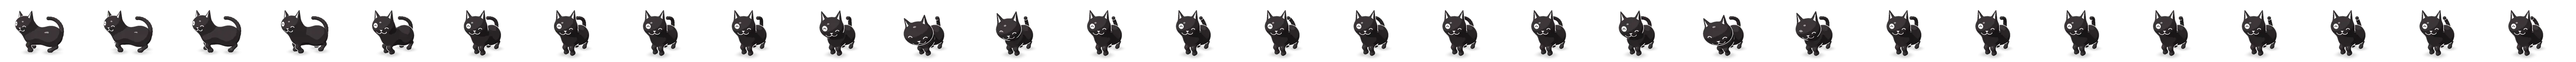
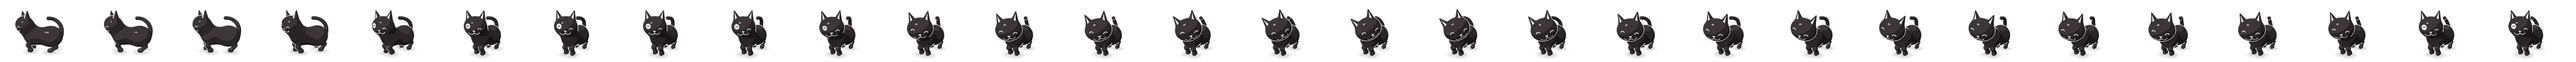
Strolling cat: rubs its head on the screen instead of head-butting
Pedro wanted the 'turras' to be a gentle head rub, as against your legs:
it leans in until its forehead touches the glass, rolls the side of its
head along it one way and back with its eyes shut, and lets go.

Claude-Session: https://claude.ai/code/session_01H2pWhfzeAJFk1pWMmimj5t

diff --git a/apps/web/scripts/gato-3d/gato.html b/apps/web/scripts/gato-3d/gato.html
@@ -235,7 +235,7 @@ function ik(root, target, a, b, hint){
  * - yaw: which way the whole cat faces (0: left, 90: towards us, 180: right)
  * - walk: stride phase (0..1) and how much it walks (0 stands)
  * - lie: 0 standing, 1 lying like a loaf
- * - look: how far the head turns towards us; nod: head pitch; tilt: head roll; push: head pushed towards us (head-butt)
+ * - look: how far the head turns towards us; nod: head pitch; tilt: head roll; push: head pushed towards us (rubbing the glass); slide: head moved sideways
  * - squash: the head flattening on the glass; blink: eyes closed; tail: { up, sway, t }
  */
 const STRIDE = 0.5;
@@ -247,7 +247,7 @@ function build(P){
   const bob = walk * -0.022 * Math.cos(4 * Math.PI * phase) + (P.breathe || 0) * 0.012;
   const sway = walk * 0.03 * Math.sin(2 * Math.PI * phase);
   const yaw = rad(P.yaw || 0);
-  const lean = P.lean || 0;                  // chest forward/down, during a head-butt
+  const lean = P.lean || 0;                  // chest forward/down, while rubbing the glass
   const toWorld = (p) => add(rotY(yaw)(sub(p, [0.05, 0, 0])), [P.x || 0, 0, 0]);
   const world3x3 = (m) => m; // ellipsoid axes are built in world space below
   const lowered = (p, how) => add(p, [0, -how * lie - crouch * 0.12, 0]);
@@ -281,7 +281,7 @@ function build(P){
   const right = norm(cross(up, f));
   const neck = toWorld(lowered([-0.7 - lean * 0.12, 1.26 + bob * 1.3, sway * 1.2], lerp(0.4, 0.46, lie)));
   const push = P.push || 0;
-  const headC = add(add(neck, mul(f, 0.06 + push)), [0, -lean * 0.06, 0]);
+  const headC = add(add(add(neck, mul(f, 0.06 + push)), [0, -lean * 0.06, 0]), mul(right, P.slide || 0));
   const sq = P.squash || 0;
   const hr = [0.45 * (1 + sq * 0.12), 0.39 * (1 + sq * 0.1), 0.4 * (1 - sq * 0.22)];
   ells.push({ c: headC, r: hr, ax: [right, up, f], k: 0.3, head: true });
@@ -399,34 +399,39 @@ function draw(scene){
 /*
  * Each action is a function of t in [0, 1) giving a pose, and a length in seconds. Every action starts where the
  * one before it ends, so they play as one movement:
- *   walk (loops, facing left) → bonk (turns towards us, two head-butts at the screen) → turn (a circle on the spot)
- *   → lie (lies down) → purr (loops) … rise (lie backwards) → leave (two head-butts, then turns to face right)
+ *   walk (loops, facing left) → bonk (turns towards us, rubs its head against the screen) → turn (a circle on the spot)
+ *   → lie (lies down) → purr (loops) … rise (lie backwards) → leave (one more rub, then turns to face right)
  *   → walk mirrored, out to the right. stand (loops) is for when its card opens while it is up.
  */
 const FACE_US = 62;                        // standing at ease, three quarters towards us
 const tailHappy = (t, n = 1) => ({ base: 70, curl: 12, sway: 0.5, t: t * n });
+/**
+ * Rubbing its head against the screen, as a cat does against your legs (u from 0 to 1): it leans in until its
+ * forehead touches the glass, then rolls the side of its head along it, one way and back, eyes shut, and lets go.
+ */
+function rub(u){
+  u = clamp(u);
+  const touch = smooth(u / 0.22) * (1 - smooth((u - 0.85) / 0.15));
+  const sweep = Math.sin(2 * Math.PI * smooth((u - 0.15) / 0.75));
+  return { push: 0.3 * touch, lean: 0.55 * touch, squash: 0.45 * touch, nod: 8 * touch, look: 28 + 16 * sweep * touch,
+    tilt: (6 + 24 * sweep) * touch, slide: 0.07 * sweep * touch, blink: smooth((touch - 0.3) / 0.4) };
+}
 const ACTIONS = {
   walk: { s: 0.8, loop: true, pose: (t) => ({ yaw: 0, walk: 1, phase: t, look: 62, nod: -4 + 3 * Math.sin(4 * Math.PI * t), tail: tailHappy(t) }) },
   bonk: { s: 2.4, pose: (t) => {
-    // 0–.25: turns to face us; then two head-butts; ends standing three quarters to us
+    // 0–.25: turns to face us; then leans in and rubs its cheek and head against the glass, to and fro, eyes shut
     const turn = ease(t / 0.25);
-    const b = (c) => { const x = (t - c) / 0.2; return x < 0 || x > 1 ? 0 : Math.sin(Math.PI * Math.min(1, x * 1.6)) ** 2 * (x < .62 ? 1 : 1 - (x - .62) / .38); };
-    const hit = Math.max(b(0.3), b(0.62));
-    const contact = Math.max(0, hit - 0.75) / 0.25;
-    return { yaw: lerp(0, FACE_US, turn), walk: t < 0.25 ? 0.6 * (1 - turn) : 0, phase: t * 3, look: lerp(62, 28, turn),
-      push: 0.42 * hit, lean: hit, squash: contact, nod: lerp(-4, 0, turn) + 16 * hit, tilt: 10 * hit, blink: smooth((hit - .3) / .3), tail: tailHappy(t, 2) };
+    return { yaw: lerp(0, FACE_US, turn), walk: t < 0.25 ? 0.6 * (1 - turn) : 0, phase: t * 3, look: lerp(62, 28, turn), ...rub((t - 0.25) / 0.75), tail: tailHappy(t, 2) };
   } },
   turn: { s: 2.0, pose: (t) => ({ yaw: FACE_US + 360 * ease(t), walk: 1, phase: t * 3, look: lerp(28, 28, t), tail: tailHappy(t, 2) }) },
   lie: { s: 1.0, pose: (t) => ({ yaw: FACE_US, lie: ease(t), look: 28, nod: 6 * ease(t), blink: smooth((t - .5) / .5), tail: tailHappy(t * .5) }) },
   purr: { s: 1.8, loop: true, pose: (t) => ({ yaw: FACE_US, lie: 1, look: 28, nod: 6 + 1.5 * Math.sin(2 * Math.PI * t), tilt: 4 * Math.sin(2 * Math.PI * t), blink: 1, breathe: Math.sin(2 * Math.PI * t), tail: { sway: 1, t } }) },
   stand: { s: 2.4, loop: true, pose: (t) => ({ yaw: FACE_US + 8 * Math.sin(2 * Math.PI * t), look: 28, tilt: 9 * Math.sin(2 * Math.PI * t), nod: 3 * Math.sin(4 * Math.PI * t), lean: 0.15 * (1 - Math.cos(2 * Math.PI * t)), blink: Math.sin(2 * Math.PI * t) > .4 ? 1 : 0, tail: tailHappy(t, 2) }) },
   leave: { s: 2.4, pose: (t) => {
-    const b = (c) => { const x = (t - c) / 0.2; return x < 0 || x > 1 ? 0 : Math.sin(Math.PI * Math.min(1, x * 1.6)) ** 2 * (x < .62 ? 1 : 1 - (x - .62) / .38); };
-    const hit = Math.max(b(0.02), b(0.32));
-    const contact = Math.max(0, hit - 0.75) / 0.25;
+    // one more rub against the glass, then turns to face right, to walk away
     const turn = ease((t - 0.62) / 0.38);
-    return { yaw: lerp(FACE_US, 180, turn), walk: turn > 0 ? Math.min(1, turn * 1.5) : 0, phase: t * 3, look: lerp(28, 62, turn),
-      push: 0.42 * hit, lean: hit, squash: contact, nod: 16 * hit, tilt: 10 * hit, blink: smooth((hit - .3) / .3), tail: tailHappy(t, 2) };
+    const r = rub(t / 0.62);
+    return { ...r, yaw: lerp(FACE_US, 180, turn), walk: turn > 0 ? Math.min(1, turn * 1.5) : 0, phase: t * 3, look: lerp(r.look, 62, turn), tail: tailHappy(t, 2) };
   } },
 };
 window.ACTIONS = Object.fromEntries(Object.entries(ACTIONS).map(([k, a]) => [k, { s: a.s, loop: !!a.loop }]));

diff --git a/apps/web/components/client/StrollingCat.tsx b/apps/web/components/client/StrollingCat.tsx
@@ -27,7 +27,7 @@ const OFF = 160;
 /** `?gato=agora` sends a cat out at once, on any page: to try it on test sites and the demo. */
 const isPreview = () => new URLSearchParams(window.location.search).get("gato") === "agora";
 
-/** in: walking in; bonk: head-butts; turn: turns round on the spot; lie: lies down; purr: lies purring; stand: stays up while its card is open; rise: gets up; leaving: last head-butts, turning to go; out: walking away. */
+/** in: walking in; bonk: rubs its head on the glass; turn: turns round on the spot; lie: lies down; purr: lies purring; stand: stays up while its card is open; rise: gets up; leaving: one more rub, turning to go; out: walking away. */
 type Phase = "away" | "in" | "bonk" | "turn" | "lie" | "purr" | "stand" | "rise" | "leaving" | "out";
 
 function readState(): StrollState & { lastSlug?: string } {
@@ -52,9 +52,9 @@ function saveVisit(s: Pick<StrollState, "visitStart" | "walks" | "lastWalk">) {
 
 /**
  * Now and then (see lib/passeio.ts) the logo's cat walks in from the right into the bottom right corner of the
- * screen, head-butts the glass to get our attention, turns round on the spot, lies down and purrs, with the name of
+ * screen, rubs its head against the glass as against our legs, turns round on the spot, lies down and purrs, with the name of
  * a real cat waiting for a family. Tapping it, or pointing at it with a mouse, opens that cat's card; when the card
- * goes, the cat gets up, gives a last couple of head-butts and leaves the way it came. If nobody comes, it does the
+ * goes, the cat gets up, rubs its head on the glass once more and leaves the way it came. If nobody comes, it does the
  * same after a while. It stays under every window, never shows while someone types or on pages where people need
  * to concentrate, and never for people who asked their device for less motion.
  */
@@ -89,7 +89,7 @@ export function StrollingCat({ cats }: { cats: NewCat[] }) {
     return here;
   };
 
-  /** Gets up if lying, gives a last couple of head-butts and goes back out to the right. */
+  /** Gets up if lying, rubs its head on the glass once more and goes back out to the right. */
   const leave = (lying: boolean) => {
     clear();
     setCard("closed");
@@ -132,7 +132,7 @@ export function StrollingCat({ cats }: { cats: NewCat[] }) {
         setDur(0);
         const enter = window.innerWidth + 20;
         setX(enter);
-        // Next frame: walk into the bottom right corner, head-butt the screen, turn round, lie down and purr.
+        // Next frame: walk into the bottom right corner, rub its head on the screen, turn round, lie down and purr.
         later(() => {
           const width = box.current?.offsetWidth || OFF;
           const stop = Math.round(window.innerWidth - width - (window.innerWidth < 640 ? 4 : 24));

diff --git a/docs/funcionalidades.md b/docs/funcionalidades.md
@@ -29,7 +29,7 @@ A gestão pergunta à API o que está ligado (`GET /features`) e mostra só isso
 
 ## Gato que passeia
 
-De vez em quando, o gato do logótipo, em 3D como num desenho animado, entra pela direita até ao canto inferior direito do ecrã, dá turras no vidro, dá uma volta sobre si próprio, deita-se e fica a ronronar, com o nome de um gato real para adoção (primeiro os que esperam há mais tempo). Ao tocar nele, ou ao passar o rato por cima, abre o cartão desse gato com o botão "Conhecer". Quando o cartão fecha (ou ao fim de 40 segundos), levanta-se, dá mais umas turras e sai por onde entrou. O gato é desenhado de antemão em pequenas imagens (`apps/web/public/gato`, cerca de 330 KB, só descarregadas quando ele aparece) a partir de `apps/web/scripts/gato-3d/gato.html`; para o mudar, editar esse ficheiro e correr `node apps/web/scripts/gato-3d/render-gato-3d.mjs`. As regras estão em `apps/web/lib/passeio.ts`:
+De vez em quando, o gato do logótipo, em 3D como num desenho animado, entra pela direita até ao canto inferior direito do ecrã, dá turras no vidro (encosta e esfrega a cabeça, como nas pernas de alguém), dá uma volta sobre si próprio, deita-se e fica a ronronar, com o nome de um gato real para adoção (primeiro os que esperam há mais tempo). Ao tocar nele, ou ao passar o rato por cima, abre o cartão desse gato com o botão "Conhecer". Quando o cartão fecha (ou ao fim de 40 segundos), levanta-se, esfrega mais uma vez a cabeça no vidro e sai por onde entrou. O gato é desenhado de antemão em pequenas imagens (`apps/web/public/gato`, cerca de 330 KB, só descarregadas quando ele aparece) a partir de `apps/web/scripts/gato-3d/gato.html`; para o mudar, editar esse ficheiro e correr `node apps/web/scripts/gato-3d/render-gato-3d.mjs`. As regras estão em `apps/web/lib/passeio.ts`:
 
 - nunca nos primeiros 20 segundos de uma visita, no máximo uma vez a cada 2 minutos e meio e 3 vezes por visita;
 - nunca com uma janela aberta, enquanto se escreve, nas páginas de formulários, conta, loja, doar e apadrinhar, nem na visita em que já apareceu o aviso de gato novo;
